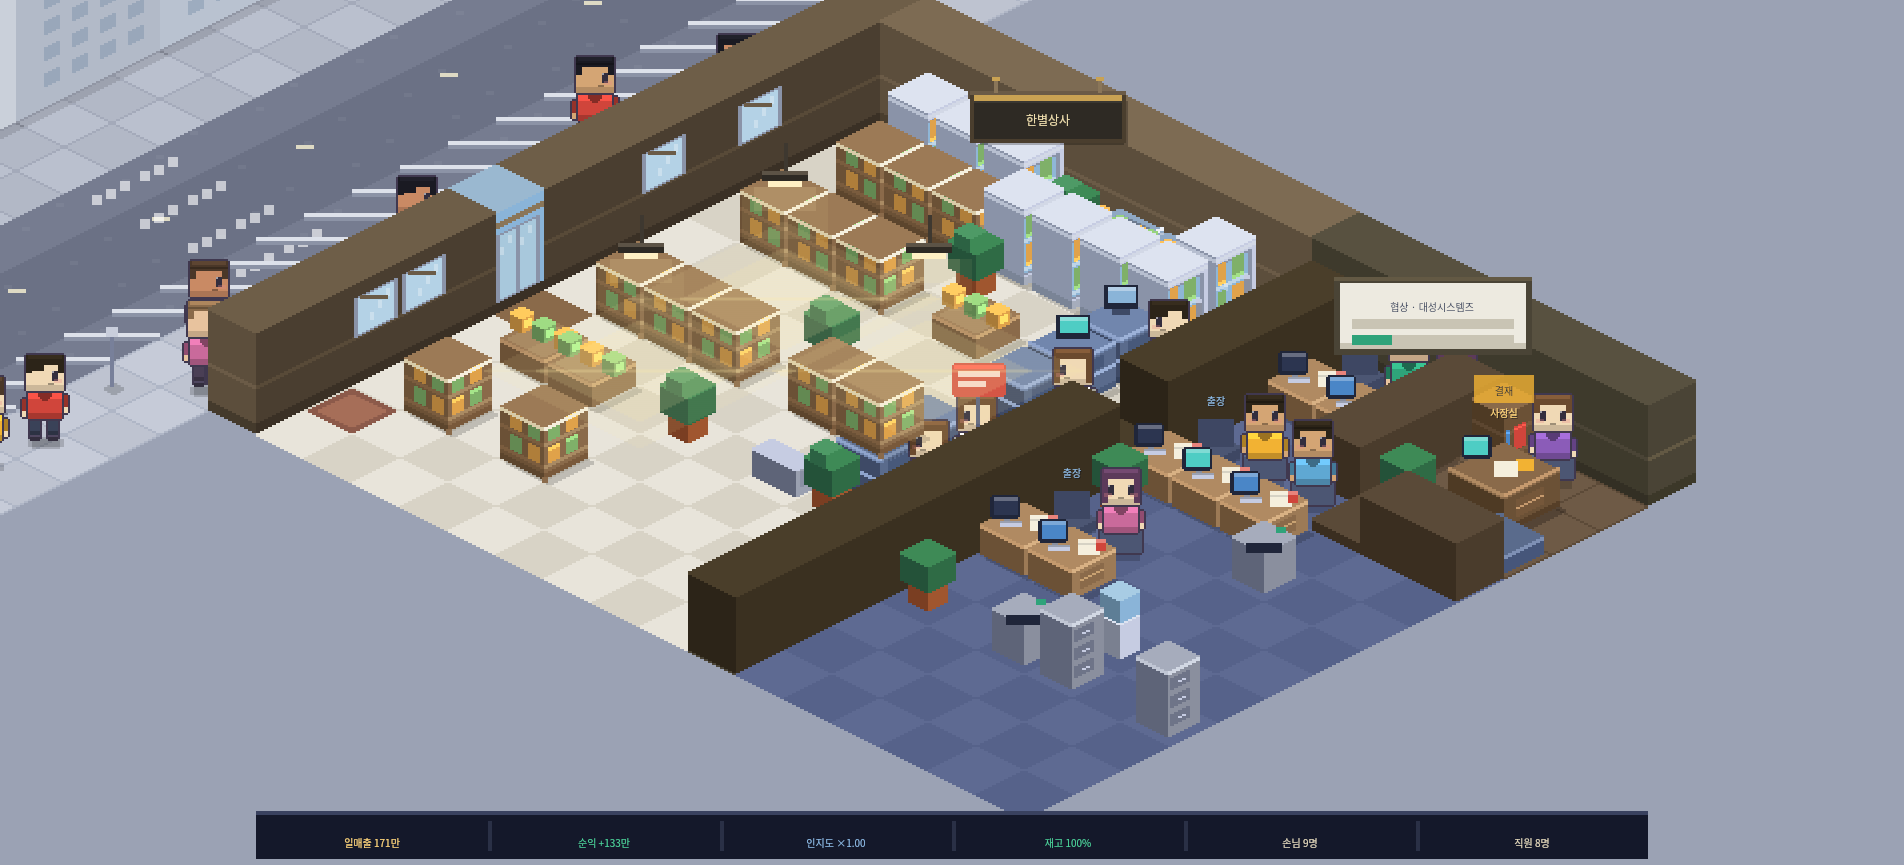
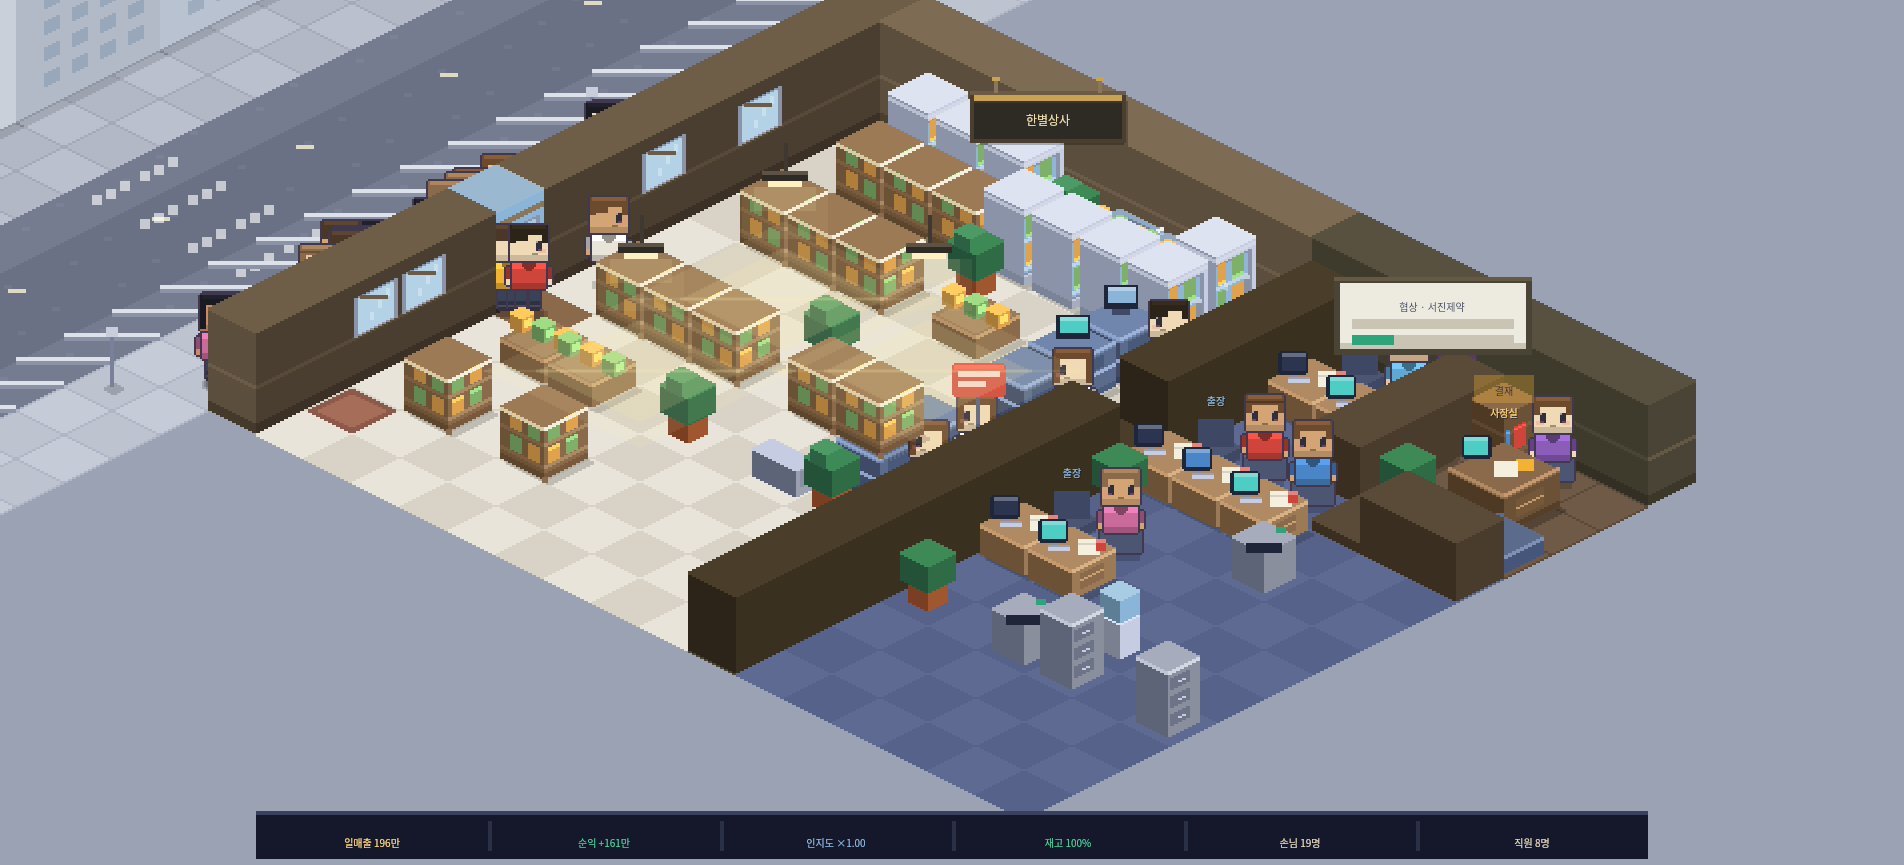
feat: 손님 수를 등급이 정한다 · 동선을 짧게
- data.js: STORE_GRADE 에 crowd. 4 → 22 로 등급을 따라 오른다
- streetSpot 을 문 근처(±3)로 좁혔다. 인도 전체에서 아무 데나 고르면 손님이
  많아질수록 왕복이 길어져 **밖에 사람이 고인다** — 24명으로 올렸더니 스무 명이
  길에 줄을 선 그림이 나왔다. 걸어 들어오는 맛은 살리되 왕복이 짧아야
  사람이 매장 안에 있는다
- spawnCustomers 는 처음 몇을 매장 안에서 시작시킨다. 전부 길에서 걸어오게 하면
  탭을 연 순간 가게가 텅 비어 있다

smoke 133/133.

diff --git a/src/render/store.js b/src/render/store.js
@@ -174,7 +174,16 @@ function storeHit(p) {
 /* ── 손님 ────────────────────────────────────────────────── */
 function spawnCustomers() {
   customers.length = 0;
-  for (let i = 0; i < 6; i++) customers.push(newCustomer());
+  /* 처음 몇은 **매장 안에서** 시작한다. 전부 길에서 걸어 들어오게 하면 탭을
+     연 순간 가게가 텅 비어 있고, 사람이 차기까지 십수 초가 걸린다.
+     들어오는 그림은 그 뒤로 계속 채워지는 손님들이 만든다. */
+  for (let i = 0; i < 6; i++) {
+    const c = newCustomer();
+    const t = vpick(shelvesNow());
+    const p = P(t.gx, t.gy + 1);
+    c.x = p.x; c.y = p.y; c.wait = vrint(0, 40); c.path = [];
+    customers.push(c);
+  }
 }
 
 function newCustomer() {
@@ -203,9 +212,19 @@ function walkable(gx, gy) {
   return !blockedAt(gx, gy);
 }
 
-/** 인도 위의 아무 지점. 들어올 때와 나갈 때의 출발·도착지로 쓴다 */
-const streetSpot = () => ({ gx: viewRand() < 0.5 ? STREET_GX : STREET_GX + 1,
-                            gy: vrint(STREET_MIN, streetMax()) });
+/**
+ * 인도 위의 지점. 들어올 때와 나갈 때의 출발·도착지다.
+ *
+ * **문 근처로 잡는다.** 인도 전체(-9 ~ roomH+8)에서 아무 데나 고르면, 손님이
+ * 많아질수록 오가는 시간이 길어져 밖에 사람이 고인다 — 등급 손님을 24명으로
+ * 올렸더니 스무 명이 길에 줄을 선 그림이 나왔다. 걸어 들어오는 맛은 살리되
+ * 왕복이 짧아야 사람이 매장 안에 있는다.
+ */
+function streetSpot() {
+  const near = vrint(-3, 3);
+  return { gx: viewRand() < 0.5 ? STREET_GX : STREET_GX + 1,
+           gy: clamp(DOOR.gy + near, STREET_MIN, streetMax()) };
+}
 
 function findPath(from, to) {
   const key = (a, b) => `${a},${b}`;
@@ -267,9 +286,13 @@ function sayShop(i) {
 function stepCustomers(items) {
   /* 손님 수. 등급이 오르면 가게가 커지고 사람도 늘어야 한다 — 넓어진 매장에
      같은 인원이 서 있으면 오히려 썰렁해 보인다. 상한도 같이 올린다. */
+  /* 등급이 손님 수를 정한다. **crowd 가 하한이자 기준**이고, 인지도와 계열사가
+     그 위로 얹힌다. 하한을 둔 이유는 초반에 마케팅이 0 이어도 가게가 비면
+     안 되기 때문이고, 상한을 둔 이유는 넓어진 매장 대비 인원이 그림을 정한다는
+     것뿐 아니라 이 배열이 매 프레임 경로를 도는 비용이기 때문이다. */
   const g = gradeOf(S);
-  const want = clamp(3 + g.deco + Math.round(S.co.marketing * 3) + S.co.subs.length,
-                     3 + g.deco, 8 + g.deco * 2);
+  const want = clamp(Math.round(g.crowd * 0.7) + Math.round(S.co.marketing * 4) + S.co.subs.length,
+                     Math.round(g.crowd * 0.7), g.crowd);
   while (customers.length < want) customers.push(newCustomer());
   while (customers.length > want) customers.pop();
 

diff --git a/src/core/data.js b/src/core/data.js
@@ -89,14 +89,14 @@ const SECTOR_KEYS = Object.keys(SECTORS);
    넘는 순간 정수 배율이 2에서 1로 떨어져 화면이 통째로 반쪽이 된다 (428 이 마지막).
    ══════════════════════════════════════════════════════════════ */
 const STORE_GRADE = [
-  //                깊이 진열대 계산대 냉장 조명 장식 창 러그 바닥 벽
-  { depth: 0, shelf: 1, counter: 0, cold: 1, light: 0, deco: 0, win: 0, rug: 0, floor: 0 },  // 구멍가게
-  { depth: 1, shelf: 2, counter: 1, cold: 2, light: 1, deco: 1, win: 0, rug: 0, floor: 0 },  // 동네슈퍼
-  { depth: 1, shelf: 3, counter: 1, cold: 3, light: 1, deco: 1, win: 1, rug: 0, floor: 1 },  // 스타트업
-  { depth: 2, shelf: 3, counter: 2, cold: 4, light: 2, deco: 2, win: 2, rug: 0, floor: 1 },  // 중소기업
-  { depth: 2, shelf: 4, counter: 2, cold: 5, light: 2, deco: 2, win: 3, rug: 1, floor: 2 },  // 중견기업
-  { depth: 3, shelf: 5, counter: 3, cold: 5, light: 3, deco: 3, win: 4, rug: 1, floor: 2 },  // 대기업
-  { depth: 4, shelf: 5, counter: 3, cold: 5, light: 3, deco: 3, win: 4, rug: 1, floor: 3 },  // 글로벌그룹
+  //                깊이 진열대 계산대 냉장 조명 장식 창 러그 바닥 손님 벽
+  { depth: 0, shelf: 1, counter: 0, cold: 1, light: 0, deco: 0, win: 0, rug: 0, floor: 0, crowd:  4 },  // 구멍가게
+  { depth: 1, shelf: 2, counter: 1, cold: 2, light: 1, deco: 1, win: 0, rug: 0, floor: 0, crowd:  6 },  // 동네슈퍼
+  { depth: 1, shelf: 3, counter: 1, cold: 3, light: 1, deco: 1, win: 1, rug: 0, floor: 1, crowd:  9 },  // 스타트업
+  { depth: 2, shelf: 3, counter: 2, cold: 4, light: 2, deco: 2, win: 2, rug: 0, floor: 1, crowd: 12 },  // 중소기업
+  { depth: 2, shelf: 4, counter: 2, cold: 5, light: 2, deco: 2, win: 3, rug: 1, floor: 2, crowd: 15 },  // 중견기업
+  { depth: 3, shelf: 5, counter: 3, cold: 5, light: 3, deco: 3, win: 4, rug: 1, floor: 2, crowd: 18 },  // 대기업
+  { depth: 4, shelf: 5, counter: 3, cold: 5, light: 3, deco: 3, win: 4, rug: 1, floor: 3, crowd: 22 },  // 글로벌그룹
 ];
 
 const gradeOf = s => STORE_GRADE[Math.min(STORE_GRADE.length - 1, s.co.tier)];
